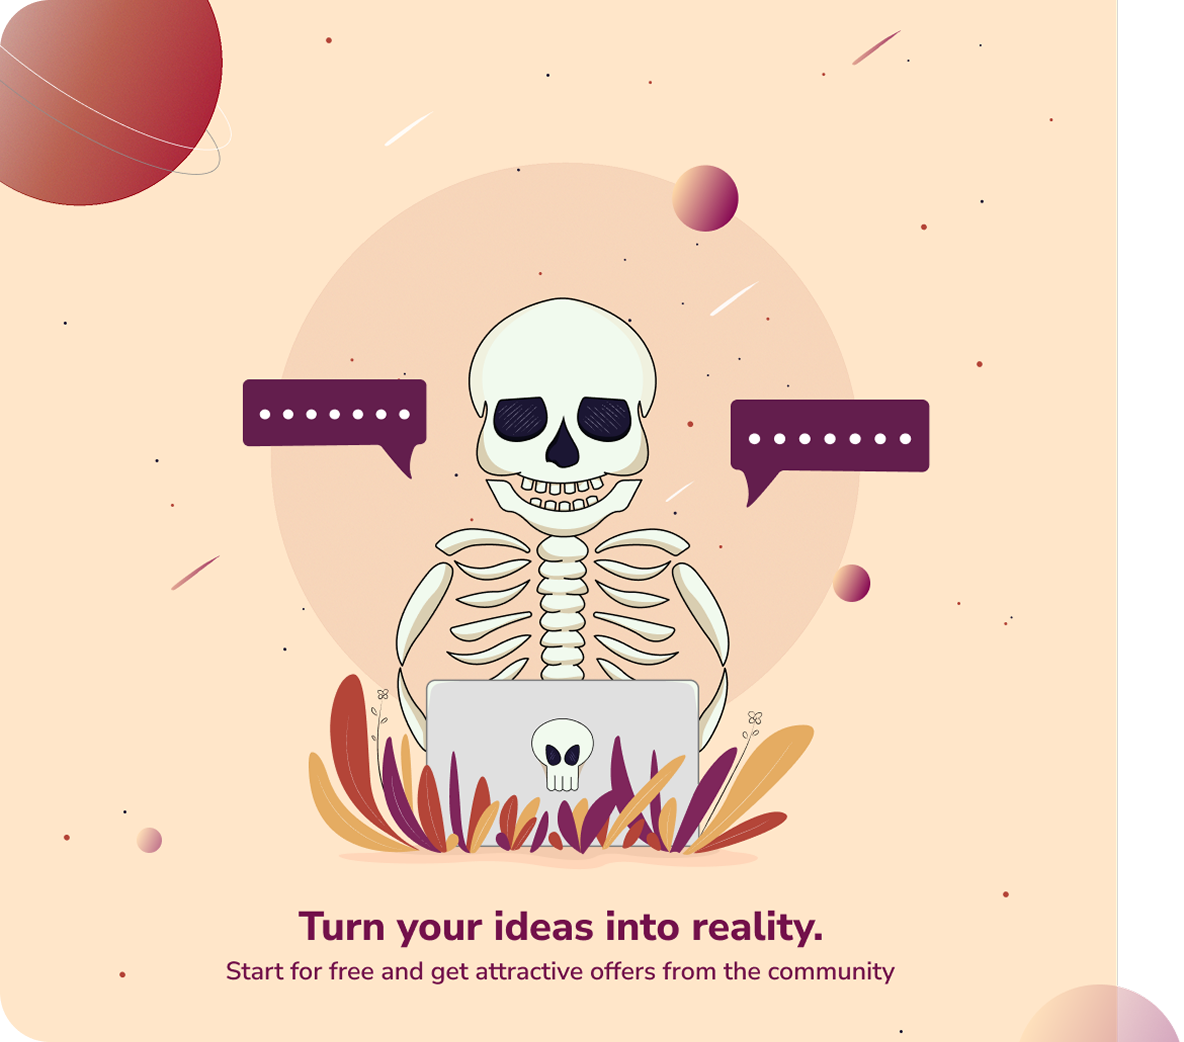
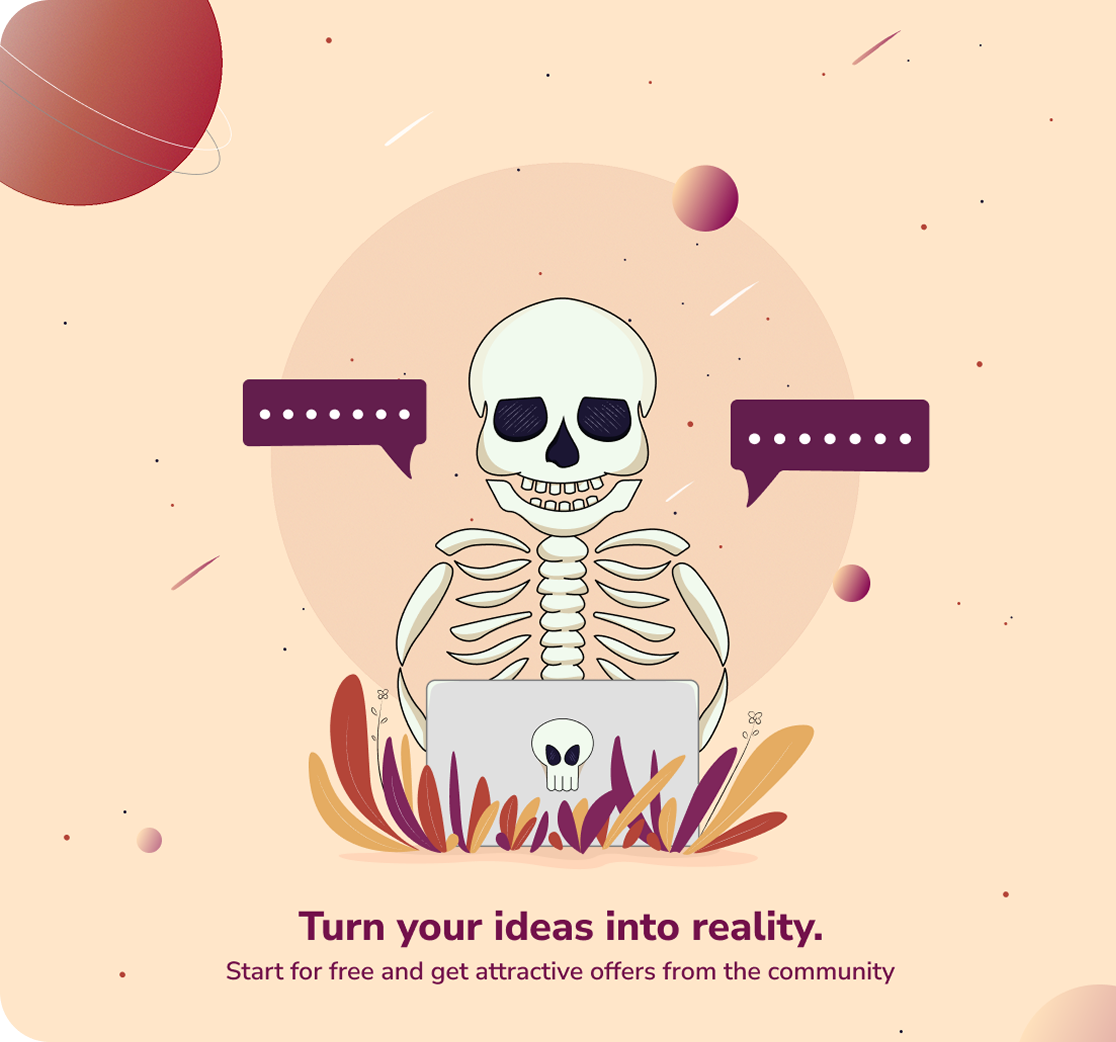
"alteracao no responsivo"

diff --git a/src/App.css b/src/App.css
@@ -18,7 +18,7 @@
   height: 100vh;
 }
 .imagem {
-  width: 100vh;
+  width: 100%;
   height: 100vh;
   object-fit: cover;
   display: block;
@@ -31,13 +31,15 @@ body {
 
 .container-infos {
   width: min(420px, 90vw);
-  padding: 0 48px;
 }
 
 @media (max-width: 768px) {
   .container {
     flex-direction: column;
+    height: auto;
+    gap: 0;
   }
+
   .imagem {
     width: 100%;
     height: auto;
